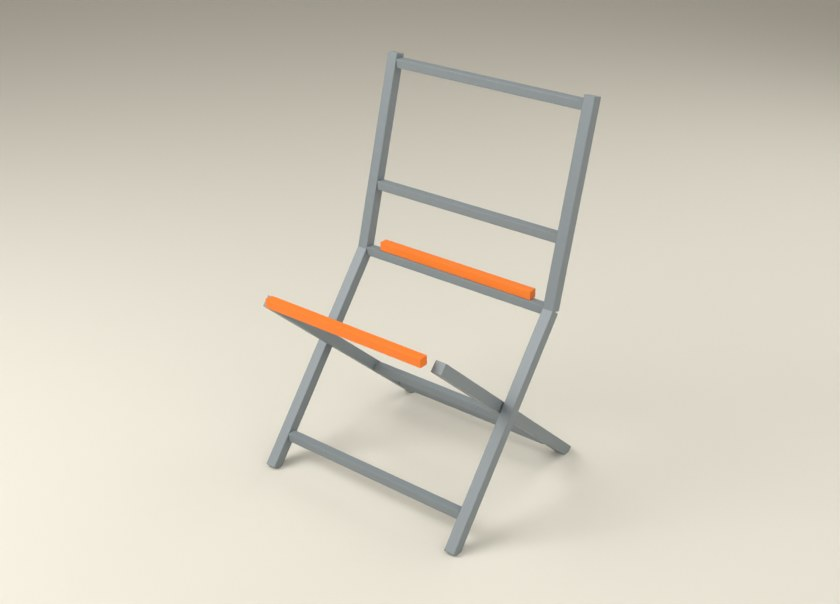
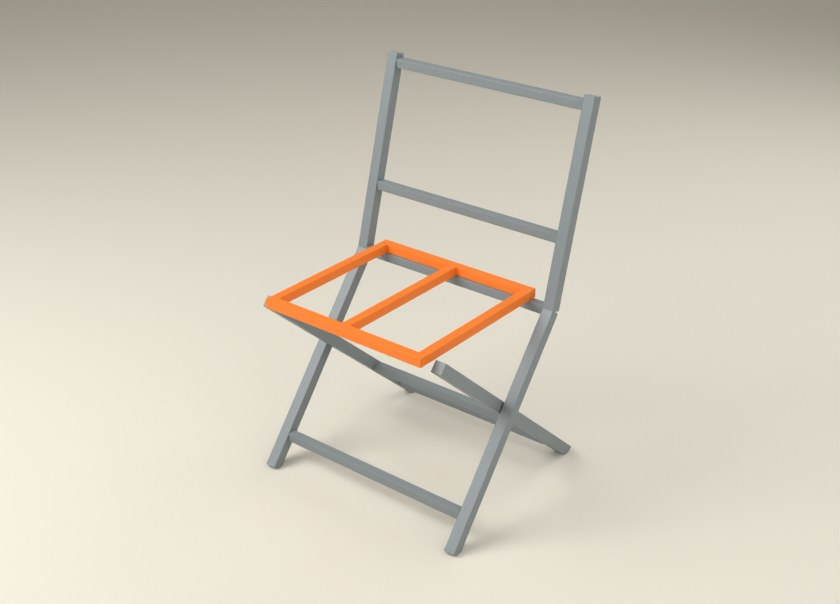
KS-1 ve KM-1: tam oturak/tabla çerçevesi, kulak, tırnak ve cıvatalar modelde; adım resimleri yenilendi

Changed region(s): [[0.4952, 0.4768, 0.65, 0.596], [0.3095, 0.3874, 0.4643, 0.5066], [0.4024, 0.447, 0.5571, 0.5662]]

diff --git a/katlanir-sandalye.html b/katlanir-sandalye.html
@@ -365,10 +365,10 @@
   <div class="hero sar">
     <p class="etiket"><a href="nasil-yapilir.html">Nasıl yapılır</a> · KS-1</p>
     <h1>Katlanır sandalye</h1>
-    <p class="lead olc">Oturak kalkar, ayaklar birbirine yatar. 14 parça demir, 110 metre şerit. Her adımda yapılacak iş <span class="tur">turuncu</span> gösterildi. Önce resme bak, sonra altındaki satırları oku.</p>
+    <p class="lead olc">Oturak kalkar, ayaklar birbirine yatar. 17 parça demir, 110 metre şerit. Her adımda yapılacak iş <span class="tur">turuncu</span> gösterildi. Önce resme bak, sonra altındaki satırları oku.</p>
     <div class="resler n2 kapak"><div class="ks-res"><img src="img/urun/ks-1.jpg" alt="Katlanır sandalye"></div>
       <div class="ks-kart ks-ozet"><h3>Kısaca</h3>
-        <p><b>Ölçü:</b> 520 × 491 × 840 mm</p><p><b>Zorluk:</b> En zor</p><p><b>Süre:</b> 1,5 gün</p><p><b>Ağırlık:</b> yaklaşık 8 kg</p>
+        <p><b>Ölçü:</b> 520 × 491 × 840 mm</p><p><b>Zorluk:</b> En zor</p><p><b>Süre:</b> 1,5 gün</p><p><b>Ağırlık:</b> yaklaşık 9 kg</p>
         <p><b>Adım:</b> 9</p></div></div>
   </div>
   <section class="sar cizgili" id="once">
@@ -377,10 +377,10 @@
       <div class="ks-kart"><h3>Gereken aletler</h3><p><b>Demir işi:</b> kaynak makinesi, taşlama (spiral), metre, gönye, işkence.<br><b>Örgü:</b> makas, şarjlı matkap, küçük vida, bir çıta.</p></div>
     </div>
     <h3 class="ara">Alışveriş listesi</h3>
-    <div class="kaydir"><table class="tb"><thead><tr><th>Ne</th><th>Ne kadar</th></tr></thead><tbody><tr><td>20×20 kutu profil, 1,5 mm</td><td>3,5 m (1 boy)</td></tr><tr><td>25×25 kutu profil, 1,5 mm</td><td>3,2 m (1 boy)</td></tr><tr><td>Rattan şerit, 8 mm düz</td><td>110 m (≈ 0,9 kg)</td></tr><tr><td>Boya</td><td>toz boya (fason) ya da sprey</td></tr></tbody></table></div>
+    <div class="kaydir"><table class="tb"><thead><tr><th>Ne</th><th>Ne kadar</th></tr></thead><tbody><tr><td>20×20 kutu profil, 1,5 mm</td><td>4,5 m (1 boy)</td></tr><tr><td>25×25 kutu profil, 1,5 mm</td><td>3,2 m (1 boy)</td></tr><tr><td>Rattan şerit, 8 mm düz</td><td>110 m (≈ 0,9 kg)</td></tr><tr><td>Boya</td><td>toz boya (fason) ya da sprey</td></tr></tbody></table></div>
   </section>
   <div class="sar ks-akis">
-<article class="ks-adim" id="a1"><div class="ks-no">1</div><div class="ic"><h2>Parçaları kes</h2><div class="resler n2"><div class="ks-res"><img src="img/ks-1/00-parca.jpg" alt="Kesilmiş parçalar" loading="lazy"><span class="et et-s" style="left:52.0%;top:75.7%"><i></i><b>B</b></span><span class="et et-s" style="left:57.1%;top:69.0%"><i></i><b>L1</b></span><span class="et et-s" style="left:52.7%;top:58.1%"><i></i><b>L2</b></span><span class="et et-s" style="left:55.9%;top:51.8%"><i></i><b>L3</b></span><span class="et et-s" style="left:56.9%;top:45.4%"><i></i><b>L4</b></span><span class="et et-s" style="left:53.8%;top:36.9%"><i></i><b>O1</b></span><span class="et et-s" style="left:69.1%;top:32.8%"><i></i><b>S1</b></span><span class="et et-s" style="left:57.1%;top:22.5%"><i></i><b>S2</b></span></div><div class="ks-tablo"><div class="kaydir"><table class="tb"><thead><tr><th>Kod</th><th>Parça</th><th>Profil</th><th class="r">Boy (mm)</th><th class="r">Adet</th></tr></thead><tbody><tr><td><b>B</b></td><td>Semer çubuğu</td><td>20×20</td><td class="r">470</td><td class="r">1</td></tr><tr><td><b>L1</b></td><td>Ön ayak</td><td>25×25</td><td class="r">528</td><td class="r">2</td></tr><tr><td><b>L2</b></td><td>Sırt dikmesi</td><td>25×25</td><td class="r">439</td><td class="r">2</td></tr><tr><td><b>L3</b></td><td>Ön ayak bağlantısı</td><td>20×20</td><td class="r">470</td><td class="r">1</td></tr><tr><td><b>L4</b></td><td>Sırt rayı</td><td>20×20</td><td class="r">470</td><td class="r">2</td></tr><tr><td><b>O1</b></td><td>Oturak kenarı</td><td>20×20</td><td class="r">400</td><td class="r">2</td></tr><tr><td><b>S1</b></td><td>Arka ayak</td><td>25×25</td><td class="r">631</td><td class="r">2</td></tr><tr><td><b>S2</b></td><td>Arka ayak bağlantısı</td><td>20×20</td><td class="r">412</td><td class="r">2</td></tr></tbody></table></div></div></div><ul class="kisa"><li>Toplam <b>14 parça</b>. Boylar resimde ve yandaki listede; aynı harfli parçalar aynı boyda.</li><li>Aynı boydakileri üst üste koyup karşılaştır: bir milimetre fark çerçeveyi yamultur.</li></ul></div></article><article class="ks-adim" id="a2"><div class="ks-no">2</div><div class="ic"><h2>Dış çerçeveyi kaynat</h2><div class="resler n1"><div class="ks-res"><img src="img/ks-1/a02.jpg" alt="Dış çerçeveyi kaynat" loading="lazy"><span class="et et-u" style="left:59.7%;top:71.4%"><i></i><b>L1</b></span><span class="et et-u" style="left:68.0%;top:34.0%"><i></i><b>L2</b></span><span class="et et-u" style="left:44.4%;top:78.3%"><i></i><b>L3</b></span><span class="et et-u" style="left:55.4%;top:34.7%"><i></i><b>L4</b></span><span class="et et-u" style="left:54.0%;top:46.0%"><i></i><b>B</b></span></div></div><ul class="kisa"><li>Turuncu parçalar: 1 × <b>B</b> (semer çubuğu, 470 mm), 2 × <b>L1</b> (ön ayak, 528 mm), 2 × <b>L2</b> (sırt dikmesi, 439 mm), 1 × <b>L3</b> (ön ayak bağlantısı, 470 mm), 2 × <b>L4</b> (sırt rayı, 470 mm).</li><li>Ön ayak, oturağın arkasında kırılıp sırt dikmesi olarak devam eder.</li><li>Kırık yerine sacdan üçgen takviye kaynat.</li><li>Araya oturağın yaslanacağı çubuk, bir alt bağlantı ve iki sırt rayı.</li></ul></div></article><article class="ks-adim" id="a3"><div class="ks-no">3</div><div class="ic"><h2>İç çerçeveyi kaynat</h2><div class="resler n1"><div class="ks-res"><img src="img/ks-1/a03.jpg" alt="İç çerçeveyi kaynat" loading="lazy"><span class="et et-u" style="left:60.4%;top:68.3%"><i></i><b>S1</b></span><span class="et et-u" style="left:53.3%;top:65.4%"><i></i><b>S2</b></span></div></div><ul class="kisa"><li>Turuncu parçalar: 2 × <b>S1</b> (arka ayak, 631 mm), 2 × <b>S2</b> (arka ayak bağlantısı, 412 mm).</li><li>İki arka ayak ve iki bağlantı.</li><li>Dış çerçevenin içinden 4'er mm boşlukla geçmeli.</li></ul></div></article><article class="ks-adim" id="a4"><div class="ks-no">4</div><div class="ic"><h2>Oturak çerçevesini kaynat</h2><div class="resler n1"><div class="ks-res"><img src="img/ks-1/a04.jpg" alt="Oturak çerçevesini kaynat" loading="lazy"><span class="et et-u" style="left:40.8%;top:54.7%"><i></i><b>O1</b></span></div></div><ul class="kisa"><li>Turuncu parçalar: 2 × <b>O1</b> (oturak kenarı, 400 mm).</li><li>400 × 380 mm çerçeve, ortada kayıt.</li><li>Ön köşelerin altına iki kulak, arka kenarın altına dört tırnak.</li></ul></div></article><article class="ks-adim" id="a5"><div class="ks-no">5</div><div class="ic"><h2>Cıvatala</h2><div class="resler n0"></div><ul class="kisa"><li>İki ayak çerçevesini ortadan birer M8 cıvatayla bağla.</li><li>Oturağı kulaklarından arka ayağın üst ucuna cıvatala.</li><li>Oturağın arkası, tırnaklarıyla dış çerçevenin çubuğuna oturur.</li></ul></div></article><article class="ks-adim" id="a6"><div class="ks-no">6</div><div class="ic"><h2>Yük dene</h2><div class="resler n0"></div><ul class="kisa"><li>Oturağa 120 kg koy, bir saat bekle.</li><li>Sırta yaslan. Yük testi yapılmadan satma.</li></ul></div></article><article class="ks-adim" id="a7"><div class="ks-no">7</div><div class="ic"><h2>Boyat</h2><div class="resler n0"></div><ul class="kisa"><li>Kaynak çapaklarını taşla, yağı ve pası temizle.</li><li>En dayanıklısı fason toz boya; yoksa astar ve iki kat sprey boya.</li><li>Örgüye boya kuruduktan sonra başla.</li></ul></div></article><article class="ks-adim" id="a8"><div class="ks-no">8</div><div class="ic"><h2>Oturağı ör</h2><div class="resler n1"><div class="ks-res"><img src="img/ks-1/a08.jpg" alt="Oturağı ör" loading="lazy"><span class="et et-u" style="left:47.8%;top:48.5%"><i></i><b>Oturak</b></span></div></div><ul class="kisa"><li>Oturak yük taşır: gergin sar.</li></ul></div></article><article class="ks-adim" id="a9"><div class="ks-no">9</div><div class="ic"><h2>Sırtı ör</h2><div class="resler n1"><div class="ks-res"><img src="img/ks-1/a09.jpg" alt="Sırtı ör" loading="lazy"><span class="et et-u" style="left:56.2%;top:24.6%"><i></i><b>Sırt</b></span></div></div><ul class="kisa"><li>Şerit iki sırt rayının ve iki dikmenin çevresinde.</li></ul></div></article></div>
+<article class="ks-adim" id="a1"><div class="ks-no">1</div><div class="ic"><h2>Parçaları kes</h2><div class="resler n2"><div class="ks-res"><img src="img/ks-1/00-parca.jpg" alt="Kesilmiş parçalar" loading="lazy"><span class="et et-s" style="left:51.6%;top:77.3%"><i></i><b>B</b></span><span class="et et-s" style="left:56.1%;top:71.3%"><i></i><b>L1</b></span><span class="et et-s" style="left:52.3%;top:61.5%"><i></i><b>L2</b></span><span class="et et-s" style="left:55.1%;top:55.8%"><i></i><b>L3</b></span><span class="et et-s" style="left:56.0%;top:50.0%"><i></i><b>L4</b></span><span class="et et-s" style="left:53.3%;top:42.3%"><i></i><b>O1</b></span><span class="et et-s" style="left:51.4%;top:33.9%"><i></i><b>O2</b></span><span class="et et-s" style="left:68.1%;top:30.0%"><i></i><b>S1</b></span><span class="et et-s" style="left:57.6%;top:21.1%"><i></i><b>S2</b></span></div><div class="ks-tablo"><div class="kaydir"><table class="tb"><thead><tr><th>Kod</th><th>Parça</th><th>Profil</th><th class="r">Boy (mm)</th><th class="r">Adet</th></tr></thead><tbody><tr><td><b>B</b></td><td>Semer çubuğu</td><td>20×20</td><td class="r">470</td><td class="r">1</td></tr><tr><td><b>L1</b></td><td>Ön ayak</td><td>25×25</td><td class="r">528</td><td class="r">2</td></tr><tr><td><b>L2</b></td><td>Sırt dikmesi</td><td>25×25</td><td class="r">439</td><td class="r">2</td></tr><tr><td><b>L3</b></td><td>Ön ayak bağlantısı</td><td>20×20</td><td class="r">470</td><td class="r">1</td></tr><tr><td><b>L4</b></td><td>Sırt rayı</td><td>20×20</td><td class="r">470</td><td class="r">2</td></tr><tr><td><b>O1</b></td><td>Oturak ön ve arka kenarı</td><td>20×20</td><td class="r">400</td><td class="r">2</td></tr><tr><td><b>O2</b></td><td>Oturak yan kenarı ve orta kaydı</td><td>20×20</td><td class="r">340</td><td class="r">3</td></tr><tr><td><b>S1</b></td><td>Arka ayak</td><td>25×25</td><td class="r">631</td><td class="r">2</td></tr><tr><td><b>S2</b></td><td>Arka ayak bağlantısı</td><td>20×20</td><td class="r">412</td><td class="r">2</td></tr></tbody></table></div></div></div><ul class="kisa"><li>Toplam <b>17 parça</b>. Boylar resimde ve yandaki listede; aynı harfli parçalar aynı boyda.</li><li>Aynı boydakileri üst üste koyup karşılaştır: bir milimetre fark çerçeveyi yamultur.</li></ul></div></article><article class="ks-adim" id="a2"><div class="ks-no">2</div><div class="ic"><h2>Dış çerçeveyi kaynat</h2><div class="resler n1"><div class="ks-res"><img src="img/ks-1/a02.jpg" alt="Dış çerçeveyi kaynat" loading="lazy"><span class="et et-u" style="left:59.7%;top:71.4%"><i></i><b>L1</b></span><span class="et et-u" style="left:68.0%;top:34.0%"><i></i><b>L2</b></span><span class="et et-u" style="left:44.4%;top:78.3%"><i></i><b>L3</b></span><span class="et et-u" style="left:55.4%;top:34.7%"><i></i><b>L4</b></span><span class="et et-u" style="left:54.0%;top:46.0%"><i></i><b>B</b></span></div></div><ul class="kisa"><li>Turuncu parçalar: 1 × <b>B</b> (semer çubuğu, 470 mm), 2 × <b>L1</b> (ön ayak, 528 mm), 2 × <b>L2</b> (sırt dikmesi, 439 mm), 1 × <b>L3</b> (ön ayak bağlantısı, 470 mm), 2 × <b>L4</b> (sırt rayı, 470 mm).</li><li>Ön ayak, oturağın arkasında kırılıp sırt dikmesi olarak devam eder.</li><li>Kırık yerine sacdan üçgen takviye kaynat.</li><li>Araya oturağın yaslanacağı çubuk, bir alt bağlantı ve iki sırt rayı.</li></ul></div></article><article class="ks-adim" id="a3"><div class="ks-no">3</div><div class="ic"><h2>İç çerçeveyi kaynat</h2><div class="resler n1"><div class="ks-res"><img src="img/ks-1/a03.jpg" alt="İç çerçeveyi kaynat" loading="lazy"><span class="et et-u" style="left:60.4%;top:68.3%"><i></i><b>S1</b></span><span class="et et-u" style="left:53.3%;top:65.4%"><i></i><b>S2</b></span></div></div><ul class="kisa"><li>Turuncu parçalar: 2 × <b>S1</b> (arka ayak, 631 mm), 2 × <b>S2</b> (arka ayak bağlantısı, 412 mm).</li><li>İki arka ayak ve iki bağlantı.</li><li>Dış çerçevenin içinden 4'er mm boşlukla geçmeli.</li></ul></div></article><article class="ks-adim" id="a4"><div class="ks-no">4</div><div class="ic"><h2>Oturak çerçevesini kaynat</h2><div class="resler n1"><div class="ks-res"><img src="img/ks-1/a04.jpg" alt="Oturak çerçevesini kaynat" loading="lazy"><span class="et et-u" style="left:40.8%;top:54.7%"><i></i><b>O1</b></span><span class="et et-u" style="left:56.8%;top:53.8%"><i></i><b>O2</b></span></div></div><ul class="kisa"><li>Turuncu parçalar: 2 × <b>O1</b> (oturak ön ve arka kenarı, 400 mm), 3 × <b>O2</b> (oturak yan kenarı ve orta kaydı, 340 mm).</li><li>400 × 380 mm çerçeve, ortada öne-arkaya bir kayıt.</li><li>Yerde, düz zeminde kaynat; köşegenler eşit olsun.</li></ul></div></article><article class="ks-adim" id="a5"><div class="ks-no">5</div><div class="ic"><h2>Kulakları ve tırnakları kaynat, cıvatala</h2><div class="resler n1"><div class="ks-res"><img src="img/ks-1/a05.jpg" alt="Kulakları ve tırnakları kaynat, cıvatala" loading="lazy"></div></div><ul class="kisa"><li>Oturağın ön köşelerinin altına iki kulak (25×4 lama, 30 mm aşağı sarkar), arka kenarın altına dört tırnak (20×4 lama).</li><li>İki ayak çerçevesini ortadan birer M8 cıvatayla bağla: makas.</li><li>Oturağı kulaklarından arka ayağın üst ucuna cıvatala: menteşe.</li><li>Oturağın arkası, tırnaklarıyla dış çerçevenin çubuğunu arasına alır. Oturunca makas kilitlenir.</li></ul></div></article><article class="ks-adim" id="a6"><div class="ks-no">6</div><div class="ic"><h2>Yük dene</h2><div class="resler n0"></div><ul class="kisa"><li>Oturağa 120 kg koy, bir saat bekle.</li><li>Sırta yaslan. Yük testi yapılmadan satma.</li></ul></div></article><article class="ks-adim" id="a7"><div class="ks-no">7</div><div class="ic"><h2>Boyat</h2><div class="resler n0"></div><ul class="kisa"><li>Kaynak çapaklarını taşla, yağı ve pası temizle.</li><li>En dayanıklısı fason toz boya; yoksa astar ve iki kat sprey boya.</li><li>Örgüye boya kuruduktan sonra başla.</li></ul></div></article><article class="ks-adim" id="a8"><div class="ks-no">8</div><div class="ic"><h2>Oturağı ör</h2><div class="resler n1"><div class="ks-res"><img src="img/ks-1/a08.jpg" alt="Oturağı ör" loading="lazy"><span class="et et-u" style="left:47.8%;top:48.5%"><i></i><b>Oturak</b></span></div></div><ul class="kisa"><li>Oturak yük taşır: gergin sar.</li></ul></div></article><article class="ks-adim" id="a9"><div class="ks-no">9</div><div class="ic"><h2>Sırtı ör</h2><div class="resler n1"><div class="ks-res"><img src="img/ks-1/a09.jpg" alt="Sırtı ör" loading="lazy"><span class="et et-u" style="left:56.2%;top:24.6%"><i></i><b>Sırt</b></span></div></div><ul class="kisa"><li>Şerit iki sırt rayının ve iki dikmenin çevresinde.</li></ul></div></article></div>
   <section class="sar cizgili">
     
     <p class="not"><b>Bu ürün henüz yapılmadı.</b> Resimler bilgisayar çizimidir, ölçüler hesaptan gelir. İlk örnek denemedir; satmadan önce yük denemesi şart. Delik yerleri ve şablon ölçüleri: <a href="eski/katlanir-yapim.html#sandalye">ayrıntılı kılavuz</a>.</p>

diff --git a/katlanir-masa.html b/katlanir-masa.html
@@ -365,10 +365,10 @@
   <div class="hero sar">
     <p class="etiket"><a href="nasil-yapilir.html">Nasıl yapılır</a> · KM-1</p>
     <h1>Katlanır masa</h1>
-    <p class="lead olc">Tabla iner, masa duvara yaslanır. 11 parça demir, 130 metre şerit. Her adımda yapılacak iş <span class="tur">turuncu</span> gösterildi. Önce resme bak, sonra altındaki satırları oku.</p>
+    <p class="lead olc">Tabla iner, masa duvara yaslanır. 12 parça demir, 130 metre şerit. Her adımda yapılacak iş <span class="tur">turuncu</span> gösterildi. Önce resme bak, sonra altındaki satırları oku.</p>
     <div class="resler n2 kapak"><div class="ks-res"><img src="img/urun/km-1.jpg" alt="Katlanır masa"></div>
       <div class="ks-kart ks-ozet"><h3>Kısaca</h3>
-        <p><b>Ölçü:</b> 600 × 600 × 720 mm</p><p><b>Zorluk:</b> Zor</p><p><b>Süre:</b> 1 gün</p><p><b>Ağırlık:</b> yaklaşık 8 kg</p>
+        <p><b>Ölçü:</b> 600 × 600 × 720 mm</p><p><b>Zorluk:</b> Zor</p><p><b>Süre:</b> 1 gün</p><p><b>Ağırlık:</b> yaklaşık 9 kg</p>
         <p><b>Adım:</b> 7</p></div></div>
   </div>
   <section class="sar cizgili" id="once">
@@ -377,10 +377,10 @@
       <div class="ks-kart"><h3>Gereken aletler</h3><p><b>Demir işi:</b> kaynak makinesi, taşlama (spiral), metre, gönye, işkence.<br><b>Örgü:</b> makas, şarjlı matkap, küçük vida, bir çıta.</p></div>
     </div>
     <h3 class="ara">Alışveriş listesi</h3>
-    <div class="kaydir"><table class="tb"><thead><tr><th>Ne</th><th>Ne kadar</th></tr></thead><tbody><tr><td>20×20 kutu profil, 1,5 mm</td><td>3,6 m (1 boy)</td></tr><tr><td>25×25 kutu profil, 1,5 mm</td><td>3,3 m (1 boy)</td></tr><tr><td>Rattan şerit, 8 mm düz</td><td>130 m (≈ 1,1 kg)</td></tr><tr><td>Boya</td><td>toz boya (fason) ya da sprey</td></tr></tbody></table></div>
+    <div class="kaydir"><table class="tb"><thead><tr><th>Ne</th><th>Ne kadar</th></tr></thead><tbody><tr><td>20×20 kutu profil, 1,5 mm</td><td>4,2 m (1 boy)</td></tr><tr><td>25×25 kutu profil, 1,5 mm</td><td>3,3 m (1 boy)</td></tr><tr><td>Rattan şerit, 8 mm düz</td><td>130 m (≈ 1,1 kg)</td></tr><tr><td>Boya</td><td>toz boya (fason) ya da sprey</td></tr></tbody></table></div>
   </section>
   <div class="sar ks-akis">
-<article class="ks-adim" id="a1"><div class="ks-no">1</div><div class="ic"><h2>Parçaları kes</h2><div class="resler n2"><div class="ks-res"><img src="img/km-1/00-parca.jpg" alt="Kesilmiş parçalar" loading="lazy"><span class="et et-s" style="left:40.7%;top:68.5%"><i></i><b>B</b></span><span class="et et-s" style="left:69.3%;top:67.7%"><i></i><b>M1</b></span><span class="et et-s" style="left:70.8%;top:57.7%"><i></i><b>M2</b></span><span class="et et-s" style="left:45.6%;top:43.5%"><i></i><b>M3</b></span><span class="et et-s" style="left:42.8%;top:37.3%"><i></i><b>M4</b></span><span class="et et-s" style="left:57.3%;top:34.2%"><i></i><b>T1</b></span><span class="et et-s" style="left:55.9%;top:26.0%"><i></i><b>T2</b></span></div><div class="ks-tablo"><div class="kaydir"><table class="tb"><thead><tr><th>Kod</th><th>Parça</th><th>Profil</th><th class="r">Boy (mm)</th><th class="r">Adet</th></tr></thead><tbody><tr><td><b>B</b></td><td>Semer çubuğu</td><td>20×20</td><td class="r">458</td><td class="r">1</td></tr><tr><td><b>M1</b></td><td>Dış çerçeve ayağı</td><td>25×25</td><td class="r">832</td><td class="r">2</td></tr><tr><td><b>M2</b></td><td>İç çerçeve ayağı</td><td>25×25</td><td class="r">836</td><td class="r">2</td></tr><tr><td><b>M3</b></td><td>Dış çerçeve bağlantısı</td><td>20×20</td><td class="r">458</td><td class="r">1</td></tr><tr><td><b>M4</b></td><td>İç çerçeve bağlantısı</td><td>20×20</td><td class="r">400</td><td class="r">1</td></tr><tr><td><b>T1</b></td><td>Tabla kenarı</td><td>20×20</td><td class="r">600</td><td class="r">2</td></tr><tr><td><b>T2</b></td><td>Tabla kenarı</td><td>20×20</td><td class="r">560</td><td class="r">2</td></tr></tbody></table></div></div></div><ul class="kisa"><li>Toplam <b>11 parça</b>. Boylar resimde ve yandaki listede; aynı harfli parçalar aynı boyda.</li><li>Aynı boydakileri üst üste koyup karşılaştır: bir milimetre fark çerçeveyi yamultur.</li></ul></div></article><article class="ks-adim" id="a2"><div class="ks-no">2</div><div class="ic"><h2>Dış ayak çerçevesini kaynat</h2><div class="resler n1"><div class="ks-res"><img src="img/km-1/a02.jpg" alt="Dış ayak çerçevesini kaynat" loading="lazy"><span class="et et-u" style="left:61.2%;top:55.8%"><i></i><b>M1</b></span><span class="et et-u" style="left:43.9%;top:72.2%"><i></i><b>M3</b></span><span class="et et-u" style="left:58.1%;top:19.4%"><i></i><b>B</b></span></div></div><ul class="kisa"><li>Turuncu parçalar: 1 × <b>B</b> (semer çubuğu, 458 mm), 2 × <b>M1</b> (dış çerçeve ayağı, 832 mm), 1 × <b>M3</b> (dış çerçeve bağlantısı, 458 mm).</li><li>İki ayak, üstte tablanın oturacağı çubuk, altta bir bağlantı.</li><li>Ayakların yere basan ucu eğik kesilir.</li></ul></div></article><article class="ks-adim" id="a3"><div class="ks-no">3</div><div class="ic"><h2>İç ayak çerçevesini kaynat</h2><div class="resler n1"><div class="ks-res"><img src="img/km-1/a03.jpg" alt="İç ayak çerçevesini kaynat" loading="lazy"><span class="et et-u" style="left:60.1%;top:54.6%"><i></i><b>M2</b></span><span class="et et-u" style="left:55.6%;top:61.6%"><i></i><b>M4</b></span></div></div><ul class="kisa"><li>Turuncu parçalar: 2 × <b>M2</b> (i̇ç çerçeve ayağı, 836 mm), 1 × <b>M4</b> (i̇ç çerçeve bağlantısı, 400 mm).</li><li>İki ayak ve bağlantılar. Dış çerçevenin içinden 4'er mm boşlukla geçmeli.</li></ul></div></article><article class="ks-adim" id="a4"><div class="ks-no">4</div><div class="ic"><h2>Tabla çerçevesini kaynat</h2><div class="resler n1"><div class="ks-res"><img src="img/km-1/a04.jpg" alt="Tabla çerçevesini kaynat" loading="lazy"><span class="et et-u" style="left:38.1%;top:29.6%"><i></i><b>T1</b></span><span class="et et-u" style="left:64.7%;top:28.1%"><i></i><b>T2</b></span></div></div><ul class="kisa"><li>Turuncu parçalar: 2 × <b>T1</b> (tabla kenarı, 600 mm), 2 × <b>T2</b> (tabla kenarı, 560 mm).</li><li>600 × 600 mm çerçeve, ortada kayıt.</li><li>Altına iki kulak (menteşe için) ve dört tırnak kaynatılacak.</li></ul></div></article><article class="ks-adim" id="a5"><div class="ks-no">5</div><div class="ic"><h2>Cıvatala</h2><div class="resler n0"></div><ul class="kisa"><li>İki ayak çerçevesini ortadan birer M8 cıvatayla bağla: makas gibi açılıp kapanır.</li><li>Tablayı kulaklarından iç çerçevenin üst ucuna cıvatala.</li><li>Tablanın öbür kenarı, tırnaklarıyla dış çerçevenin çubuğuna oturur. Üstüne yük binince makas kilitlenir.</li></ul></div></article><article class="ks-adim" id="a6"><div class="ks-no">6</div><div class="ic"><h2>Boyat</h2><div class="resler n0"></div><ul class="kisa"><li>Kaynak çapaklarını taşla, yağı ve pası temizle.</li><li>En dayanıklısı fason toz boya; yoksa astar ve iki kat sprey boya.</li><li>Örgüye boya kuruduktan sonra başla.</li></ul></div></article><article class="ks-adim" id="a7"><div class="ks-no">7</div><div class="ic"><h2>Tablayı ör</h2><div class="resler n1"><div class="ks-res"><img src="img/km-1/a07.jpg" alt="Tablayı ör" loading="lazy"><span class="et et-u" style="left:50.0%;top:21.7%"><i></i><b>Tabla</b></span></div></div><ul class="kisa"><li>Sık ve gergin ör.</li><li>Katlamak için tablanın oturan kenarını kaldır, ayakları birbirine yatır.</li></ul></div></article></div>
+<article class="ks-adim" id="a1"><div class="ks-no">1</div><div class="ic"><h2>Parçaları kes</h2><div class="resler n2"><div class="ks-res"><img src="img/km-1/00-parca.jpg" alt="Kesilmiş parçalar" loading="lazy"><span class="et et-s" style="left:41.0%;top:69.2%"><i></i><b>B</b></span><span class="et et-s" style="left:68.6%;top:68.5%"><i></i><b>M1</b></span><span class="et et-s" style="left:70.0%;top:58.8%"><i></i><b>M2</b></span><span class="et et-s" style="left:45.8%;top:44.9%"><i></i><b>M3</b></span><span class="et et-s" style="left:43.0%;top:38.9%"><i></i><b>M4</b></span><span class="et et-s" style="left:57.0%;top:35.9%"><i></i><b>T1</b></span><span class="et et-s" style="left:55.9%;top:26.6%"><i></i><b>T2</b></span></div><div class="ks-tablo"><div class="kaydir"><table class="tb"><thead><tr><th>Kod</th><th>Parça</th><th>Profil</th><th class="r">Boy (mm)</th><th class="r">Adet</th></tr></thead><tbody><tr><td><b>B</b></td><td>Semer çubuğu</td><td>20×20</td><td class="r">458</td><td class="r">1</td></tr><tr><td><b>M1</b></td><td>Dış çerçeve ayağı</td><td>25×25</td><td class="r">832</td><td class="r">2</td></tr><tr><td><b>M2</b></td><td>İç çerçeve ayağı</td><td>25×25</td><td class="r">836</td><td class="r">2</td></tr><tr><td><b>M3</b></td><td>Dış çerçeve bağlantısı</td><td>20×20</td><td class="r">458</td><td class="r">1</td></tr><tr><td><b>M4</b></td><td>İç çerçeve bağlantısı</td><td>20×20</td><td class="r">400</td><td class="r">1</td></tr><tr><td><b>T1</b></td><td>Tabla kenarı</td><td>20×20</td><td class="r">600</td><td class="r">2</td></tr><tr><td><b>T2</b></td><td>Tabla kenarı ve orta kaydı</td><td>20×20</td><td class="r">560</td><td class="r">3</td></tr></tbody></table></div></div></div><ul class="kisa"><li>Toplam <b>12 parça</b>. Boylar resimde ve yandaki listede; aynı harfli parçalar aynı boyda.</li><li>Aynı boydakileri üst üste koyup karşılaştır: bir milimetre fark çerçeveyi yamultur.</li></ul></div></article><article class="ks-adim" id="a2"><div class="ks-no">2</div><div class="ic"><h2>Dış ayak çerçevesini kaynat</h2><div class="resler n1"><div class="ks-res"><img src="img/km-1/a02.jpg" alt="Dış ayak çerçevesini kaynat" loading="lazy"><span class="et et-u" style="left:61.2%;top:55.8%"><i></i><b>M1</b></span><span class="et et-u" style="left:43.9%;top:72.2%"><i></i><b>M3</b></span><span class="et et-u" style="left:58.1%;top:19.4%"><i></i><b>B</b></span></div></div><ul class="kisa"><li>Turuncu parçalar: 1 × <b>B</b> (semer çubuğu, 458 mm), 2 × <b>M1</b> (dış çerçeve ayağı, 832 mm), 1 × <b>M3</b> (dış çerçeve bağlantısı, 458 mm).</li><li>İki ayak, üstte tablanın oturacağı çubuk, altta bir bağlantı.</li><li>Ayakların yere basan ucu eğik kesilir.</li></ul></div></article><article class="ks-adim" id="a3"><div class="ks-no">3</div><div class="ic"><h2>İç ayak çerçevesini kaynat</h2><div class="resler n1"><div class="ks-res"><img src="img/km-1/a03.jpg" alt="İç ayak çerçevesini kaynat" loading="lazy"><span class="et et-u" style="left:60.1%;top:54.6%"><i></i><b>M2</b></span><span class="et et-u" style="left:55.6%;top:61.6%"><i></i><b>M4</b></span></div></div><ul class="kisa"><li>Turuncu parçalar: 2 × <b>M2</b> (i̇ç çerçeve ayağı, 836 mm), 1 × <b>M4</b> (i̇ç çerçeve bağlantısı, 400 mm).</li><li>İki ayak ve bağlantılar. Dış çerçevenin içinden 4'er mm boşlukla geçmeli.</li></ul></div></article><article class="ks-adim" id="a4"><div class="ks-no">4</div><div class="ic"><h2>Tabla çerçevesini kaynat</h2><div class="resler n1"><div class="ks-res"><img src="img/km-1/a04.jpg" alt="Tabla çerçevesini kaynat" loading="lazy"><span class="et et-u" style="left:38.1%;top:29.6%"><i></i><b>T1</b></span><span class="et et-u" style="left:64.7%;top:28.1%"><i></i><b>T2</b></span></div></div><ul class="kisa"><li>Turuncu parçalar: 2 × <b>T1</b> (tabla kenarı, 600 mm), 3 × <b>T2</b> (tabla kenarı ve orta kaydı, 560 mm).</li><li>600 × 600 mm çerçeve, ortada kayıt.</li><li>Yerde, düz zeminde kaynat; köşegenler eşit olsun.</li></ul></div></article><article class="ks-adim" id="a5"><div class="ks-no">5</div><div class="ic"><h2>Kulakları ve tırnakları kaynat, cıvatala</h2><div class="resler n1"><div class="ks-res"><img src="img/km-1/a05.jpg" alt="Kulakları ve tırnakları kaynat, cıvatala" loading="lazy"></div></div><ul class="kisa"><li>Tablanın altına, bir kenara iki kulak (25×4 lama, 30 mm aşağı sarkar); karşı kenara dört tırnak (20×4 lama).</li><li>İki ayak çerçevesini ortadan birer M8 cıvatayla bağla: makas gibi açılıp kapanır.</li><li>Tablayı kulaklarından iç çerçevenin üst ucuna cıvatala.</li><li>Tablanın öbür kenarı, tırnaklarıyla dış çerçevenin çubuğunu arasına alır. Üstüne yük binince makas kilitlenir.</li></ul></div></article><article class="ks-adim" id="a6"><div class="ks-no">6</div><div class="ic"><h2>Boyat</h2><div class="resler n0"></div><ul class="kisa"><li>Kaynak çapaklarını taşla, yağı ve pası temizle.</li><li>En dayanıklısı fason toz boya; yoksa astar ve iki kat sprey boya.</li><li>Örgüye boya kuruduktan sonra başla.</li></ul></div></article><article class="ks-adim" id="a7"><div class="ks-no">7</div><div class="ic"><h2>Tablayı ör</h2><div class="resler n1"><div class="ks-res"><img src="img/km-1/a07.jpg" alt="Tablayı ör" loading="lazy"><span class="et et-u" style="left:50.0%;top:21.7%"><i></i><b>Tabla</b></span></div></div><ul class="kisa"><li>Sık ve gergin ör.</li><li>Katlamak için tablanın oturan kenarını kaldır, ayakları birbirine yatır.</li></ul></div></article></div>
   <section class="sar cizgili">
     
     <p class="not"><b>Bu ürün henüz yapılmadı.</b> Resimler bilgisayar çizimidir, ölçüler hesaptan gelir. İlk örnek denemedir; satmadan önce yük denemesi şart. Delik yerleri ve şablon ölçüleri: <a href="eski/katlanir-yapim.html#masa">ayrıntılı kılavuz</a>.</p>
